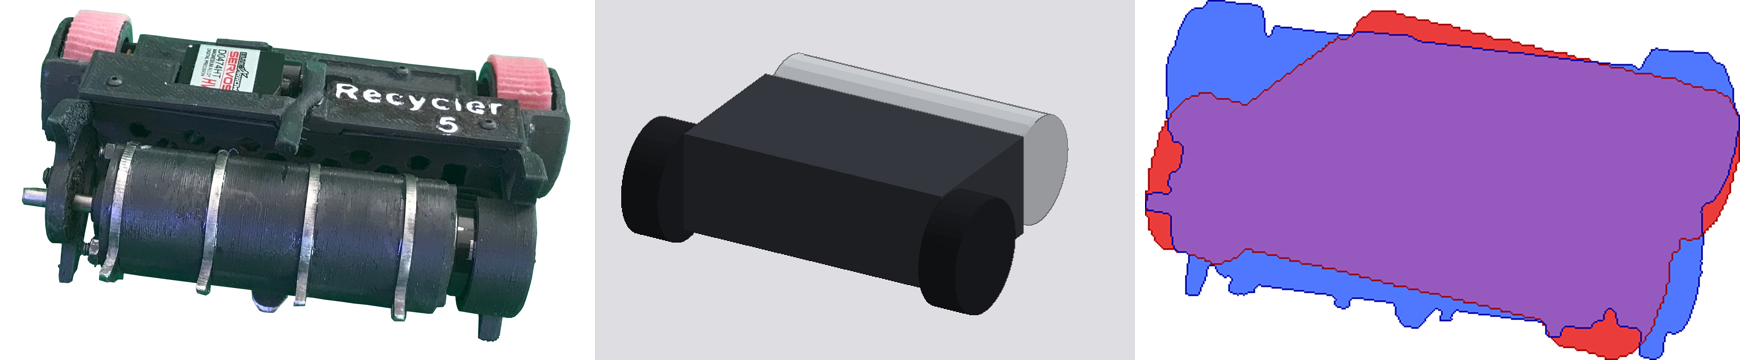
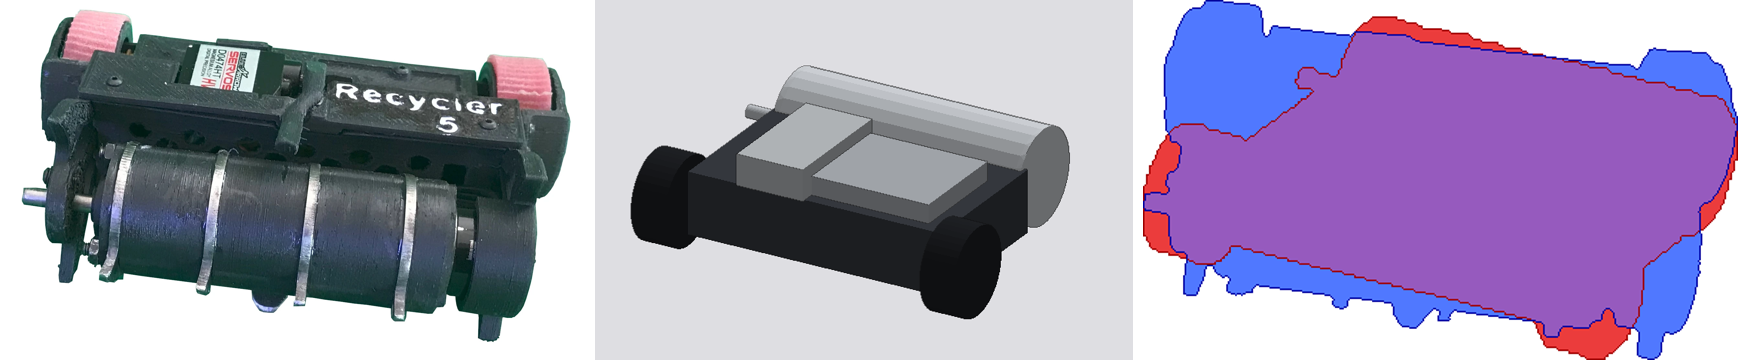
recycler round 3
Claude-Session: https://claude.ai/code/session_015mpiJjTw5zcoDZURsFKi5R

diff --git a/robots/recycler/STRUGGLES.md b/robots/recycler/STRUGGLES.md
@@ -9,3 +9,6 @@
 ## Round 2
 - Rebuilt with `robot kit` (kit.json); weapon-axis check now passes. Silhouette IoU stuck ~0.78 (best camera is a rear view, mirrored). Remaining differences: no ring bands, no servo/top plate, rear wheels in photo sit higher and further back, drum end plates/shaft missing. Likeness FAIL (1 blocker: silhouette).
 - Kit hint: no ring-band/extra detail part and the matcher choosing a rear camera for a front-facing photo is confusing.
+
+## Round 3
+- Lowered drum, smaller wheels, added servo block, label plate, axle stub. IoU 0.74 (worse than r2 0.78 which had a taller body); mirroring y did not help (matcher picks mirrored rear view either way). Likeness FAIL (silhouette). Still missing: ring bands, pink wheels, caster, stepped top.
